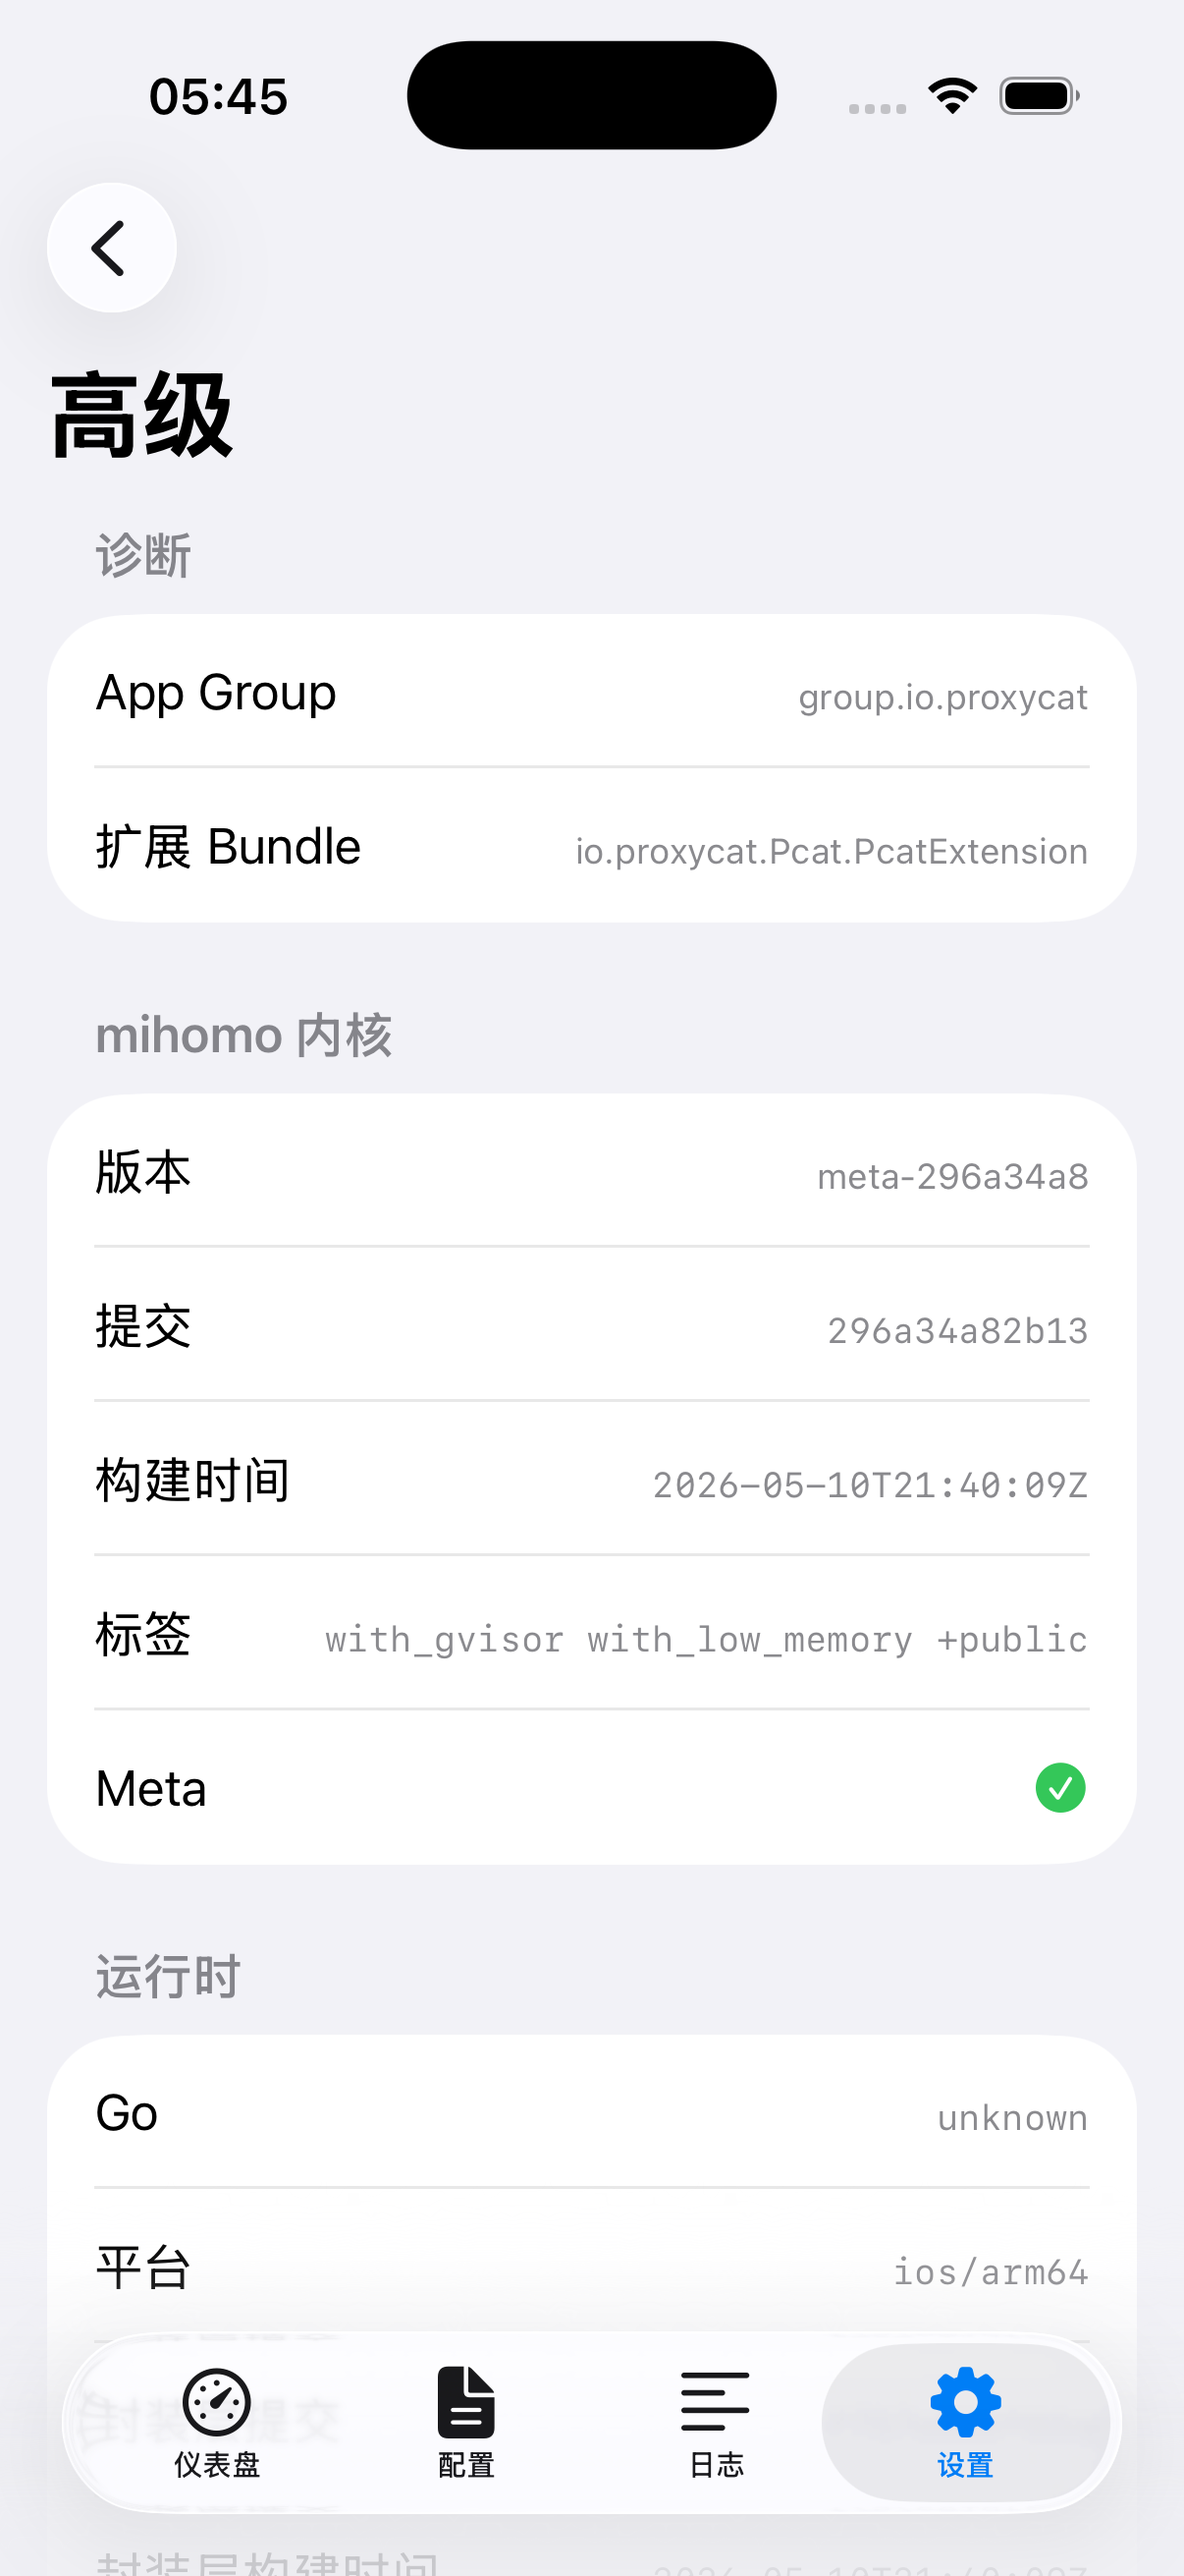
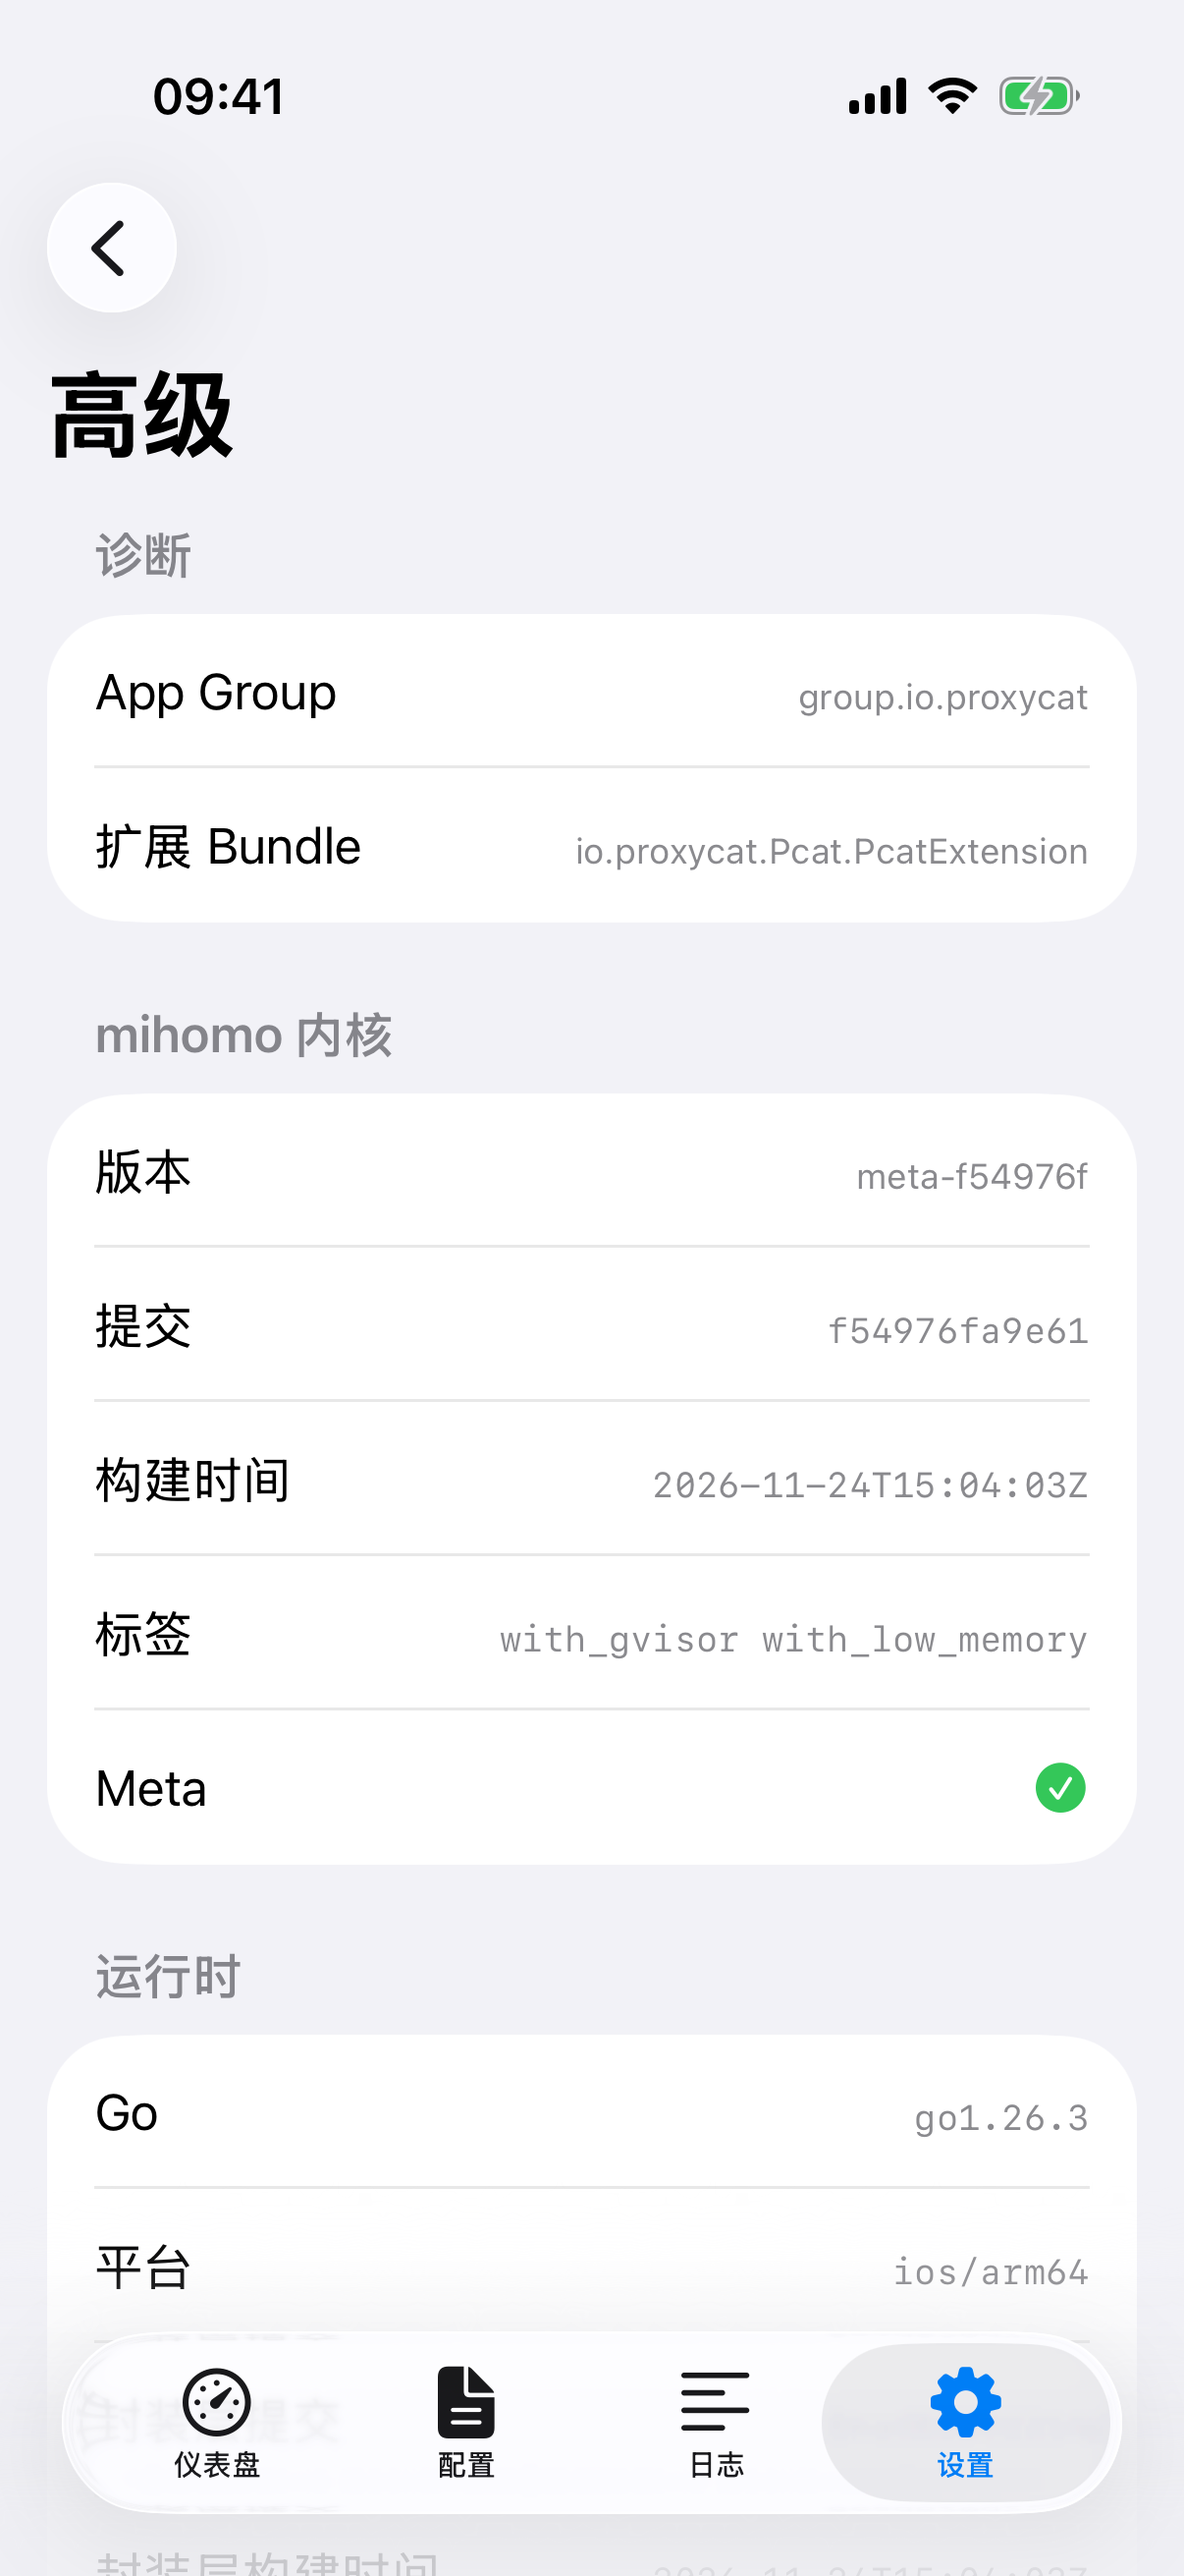
Refresh README and screenshots
- Add feature overview and an expanded screenshot gallery
- Refresh dashboard, profiles, settings, Auto Connect, MITM certificate,
  and diagnostics screenshots from the current build
- Add Profile Editor, MITM Config, Saved Logs, and Statistics screenshots
- Document the MITM editor and supported localizations
- Resolve stale saved-log marker paths after app container changes and
  add FilePath regression tests

diff --git a/Library/Support/FilePath.swift b/Library/Support/FilePath.swift
@@ -83,11 +83,32 @@ public enum FilePath {
         guard let data = try? Data(contentsOf: marker),
               let raw = String(data: data, encoding: .utf8)
         else { return nil }
-        let path = raw.trimmingCharacters(in: .whitespacesAndNewlines)
-        guard !path.isEmpty, FileManager.default.fileExists(atPath: path) else {
-            return nil
+        return resolvedActiveLogPath(
+            storedPath: raw.trimmingCharacters(in: .whitespacesAndNewlines),
+            logsDirectory: logsDirectory
+        )
+    }
+
+    /// Resolve the path stored in an extension-written marker.
+    ///
+    /// App container UUIDs change when the app is reinstalled or updated,
+    /// while the extension's marker file can survive with its old
+    /// absolute path. Prefer the stored path when it still exists, then
+    /// fall back to the same filename inside the current logs directory.
+    nonisolated static func resolvedActiveLogPath(
+        storedPath: String,
+        logsDirectory: URL,
+        fileExists: (String) -> Bool = { FileManager.default.fileExists(atPath: $0) }
+    ) -> String? {
+        guard !storedPath.isEmpty else { return nil }
+        if fileExists(storedPath) {
+            return storedPath
         }
-        return path
+
+        let name = URL(fileURLWithPath: storedPath).lastPathComponent
+        guard !name.isEmpty, name != "/" else { return nil }
+        let candidate = logsDirectory.appendingPathComponent(name).path
+        return fileExists(candidate) ? candidate : nil
     }
 
     /// Path of the Unix-domain command socket. Both the Network

diff --git a/Tests/LibraryTests/FilePathTests.swift b/Tests/LibraryTests/FilePathTests.swift
@@ -1,0 +1,46 @@
+import Foundation
+import Testing
+@testable import Library
+
+@Suite struct FilePathMarkerTests {
+    private let logsDirectory = URL(fileURLWithPath: "/tmp/proxycat-current/Logs", isDirectory: true)
+
+    @Test func prefersStoredPathWhenItStillExists() {
+        let stored = "/tmp/proxycat-old/Logs/mihomo-20261124-201500.log"
+        let resolved = FilePath.resolvedActiveLogPath(
+            storedPath: stored,
+            logsDirectory: logsDirectory,
+            fileExists: { $0 == stored }
+        )
+        #expect(resolved == stored)
+    }
+
+    @Test func resolvesStaleContainerPathByFilename() {
+        let stored = "/tmp/proxycat-old/Logs/mihomo-20261124-201500.log"
+        let expected = logsDirectory.appendingPathComponent("mihomo-20261124-201500.log").path
+        let resolved = FilePath.resolvedActiveLogPath(
+            storedPath: stored,
+            logsDirectory: logsDirectory,
+            fileExists: { $0 == expected }
+        )
+        #expect(resolved == expected)
+    }
+
+    @Test func returnsNilWhenNeitherPathExists() {
+        let resolved = FilePath.resolvedActiveLogPath(
+            storedPath: "/tmp/proxycat-old/Logs/mihomo-gone.log",
+            logsDirectory: logsDirectory,
+            fileExists: { _ in false }
+        )
+        #expect(resolved == nil)
+    }
+
+    @Test func rejectsEmptyStoredPath() {
+        let resolved = FilePath.resolvedActiveLogPath(
+            storedPath: "",
+            logsDirectory: logsDirectory,
+            fileExists: { _ in true }
+        )
+        #expect(resolved == nil)
+    }
+}
